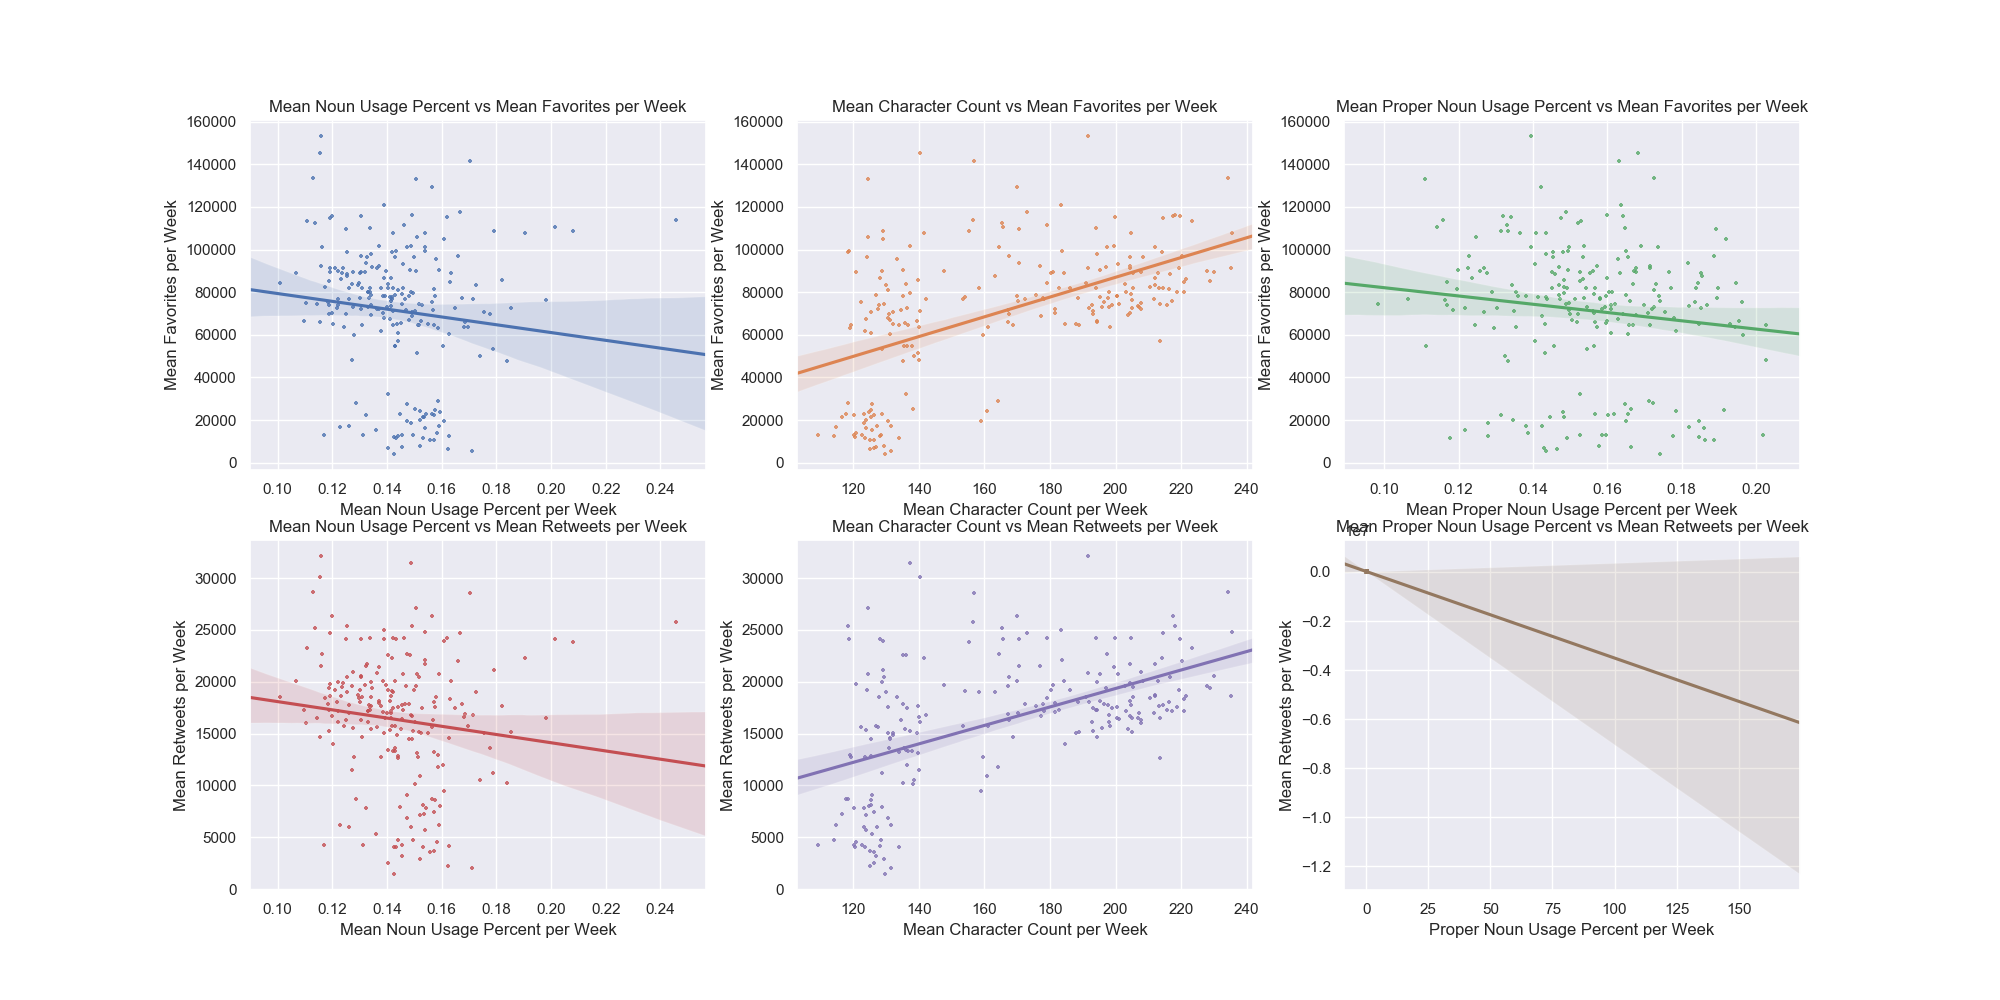
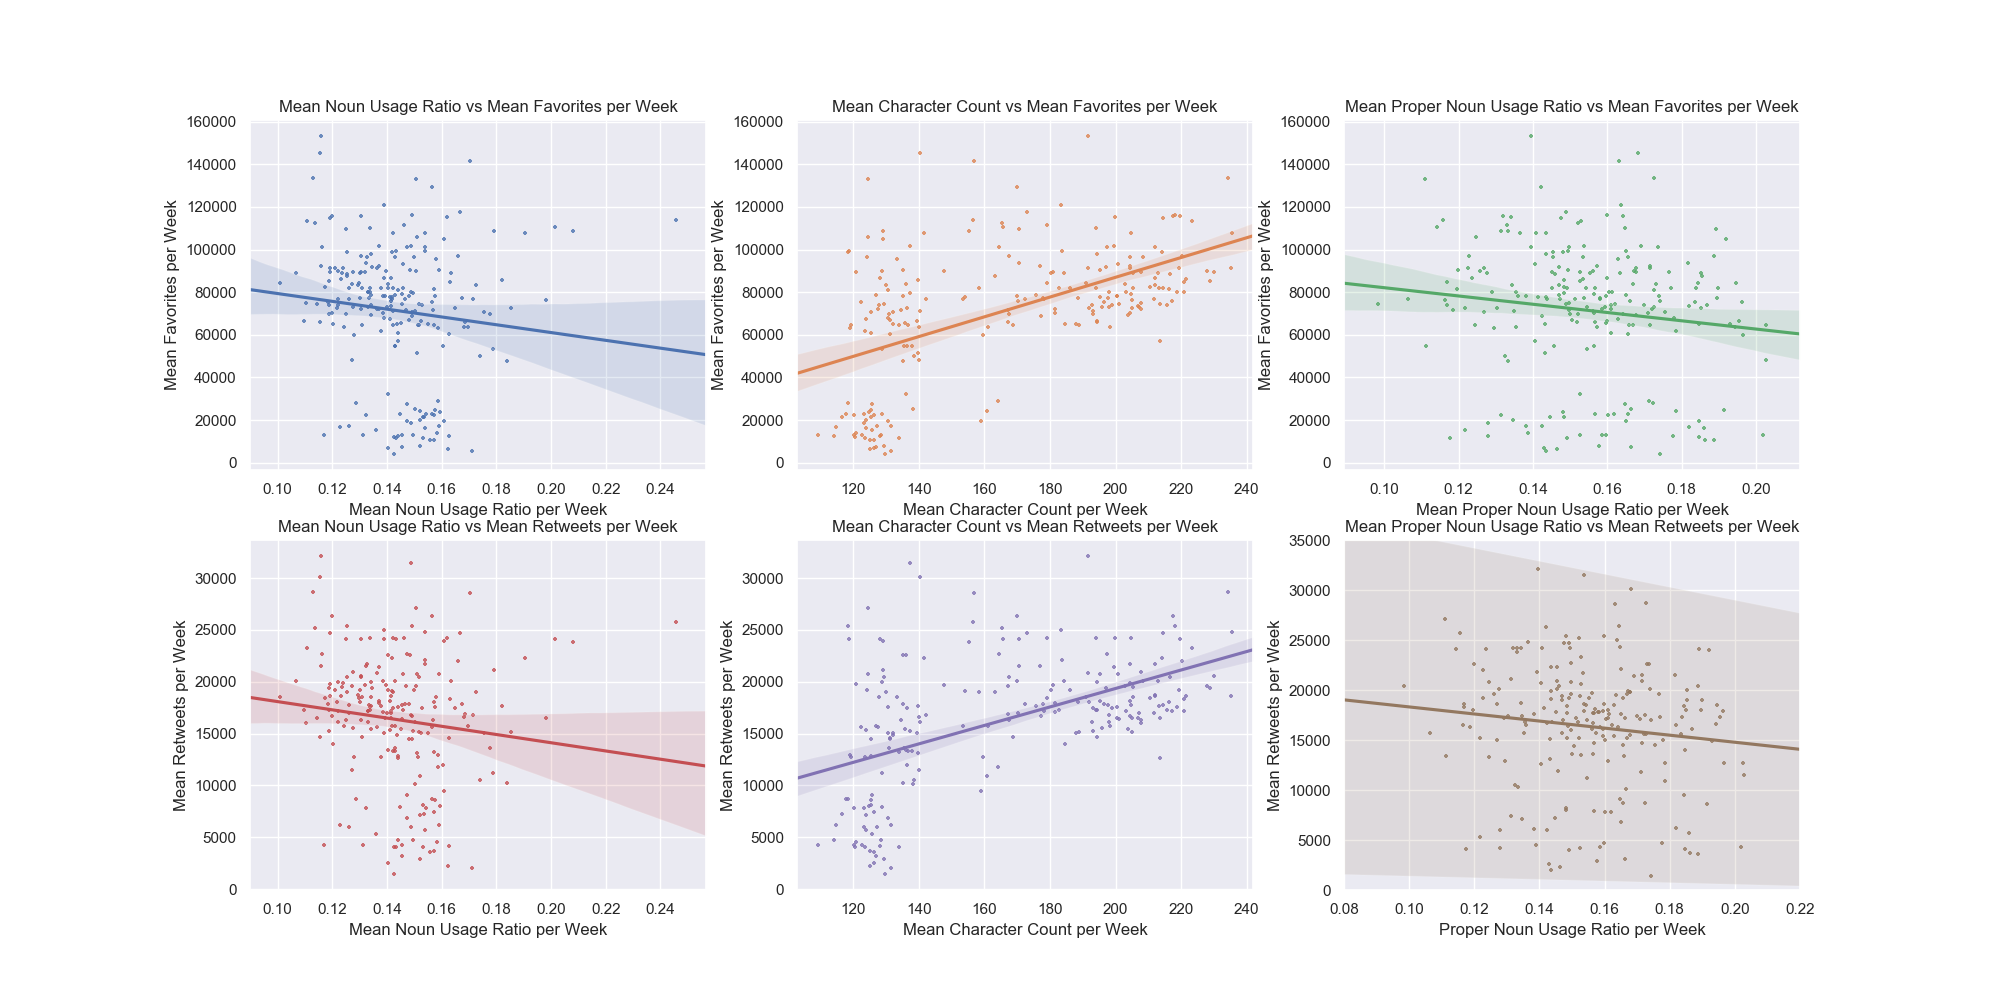
Fixed some shit

diff --git a/language.py b/language.py
@@ -111,7 +111,7 @@ def create_grammarplot(tweets):
     sns.kdeplot(data=tweets['VERB'], ax=ax)
     sns.kdeplot(data=tweets['ADJ'], ax=ax)
     sns.kdeplot(data=tweets['ADV'], ax=ax)
-    ax.set(xlabel='Part of Speech Percentage', ylabel='Probability Density',
+    ax.set(xlabel='Part of Speech Ratio', ylabel='Probability Density',
            title='Distribution of Grammar Usage in Tweets')
 
     fig.savefig('images/grammar.png')
@@ -131,9 +131,9 @@ def create_grammarplot(tweets):
 
     sns.regplot(x='NOUN', y='favorites', marker='+', scatter_kws={"s": 10},
                 data=tweets, ax=ax1)
-    ax1.set(xlabel='Mean Noun Usage Percent per Week',
+    ax1.set(xlabel='Mean Noun Usage Ratio per Week',
             ylabel='Mean Favorites per Week',
-            title='Mean Noun Usage Percent vs Mean Favorites per Week')
+            title='Mean Noun Usage Ratio vs Mean Favorites per Week')
 
     sns.regplot(x='character count', y='favorites', marker='+',
                 scatter_kws={"s": 10}, data=tweets, ax=ax2)
@@ -143,15 +143,15 @@ def create_grammarplot(tweets):
 
     sns.regplot(x='PROPN', y='favorites', marker='+', scatter_kws={"s": 10},
                 data=tweets, ax=ax3)
-    ax3.set(xlabel='Mean Proper Noun Usage Percent per Week',
+    ax3.set(xlabel='Mean Proper Noun Usage Ratio per Week',
             ylabel='Mean Favorites per Week',
-            title='Mean Proper Noun Usage Percent vs Mean Favorites per Week')
+            title='Mean Proper Noun Usage Ratio vs Mean Favorites per Week')
 
     sns.regplot(x='NOUN', y='retweets', marker='+', scatter_kws={"s": 10},
                 data=tweets, ax=ax4)
-    ax4.set(xlabel='Mean Noun Usage Percent per Week',
+    ax4.set(xlabel='Mean Noun Usage Ratio per Week',
             ylabel='Mean Retweets per Week',
-            title='Mean Noun Usage Percent vs Mean Retweets per Week')
+            title='Mean Noun Usage Ratio vs Mean Retweets per Week')
 
     sns.regplot(x='character count', y='retweets', marker='+',
                 scatter_kws={"s": 10}, data=tweets, ax=ax5)
@@ -161,9 +161,10 @@ def create_grammarplot(tweets):
 
     sns.regplot(x='PROPN', y='retweets', marker='+', scatter_kws={"s": 10},
                 data=tweets, ax=ax6)
-    ax6.set(xlabel='Proper Noun Usage Percent per Week',
+    ax6.set(xlabel='Proper Noun Usage Ratio per Week',
             ylabel='Mean Retweets per Week',
-            title='Mean Proper Noun Usage Percent vs Mean Retweets per Week')
+            title='Mean Proper Noun Usage Ratio vs Mean Retweets per Week',
+            xlim=(0.08, 0.22), ylim=(0, 35000))
 
     fig.savefig('images/comparisons.png')
 

diff --git a/README.md b/README.md
@@ -30,8 +30,7 @@
     4. test_machine.py
         1. test_machine_retweets.png
         2. test_machine_favorites.png
-6. **WARNING FOR MAC USERS**: It seems that mac users have an issue reading in CSV files with the given code. To fix this, delete the "CSE163Project/" portion from the path to all of the read_csv lines of code.
-7. If you want to generate another _big_tweet_data_ dataset, uncomment the _"import spacy"_ and _lines 138-143_ in **language.py**.
+6. If you want to generate another _big_tweet_data_ dataset, uncomment the _"import spacy"_ and _lines 138-143_ in **language.py**.
 
 
 ![Good Luck Image](/Good_luck.jpg)
